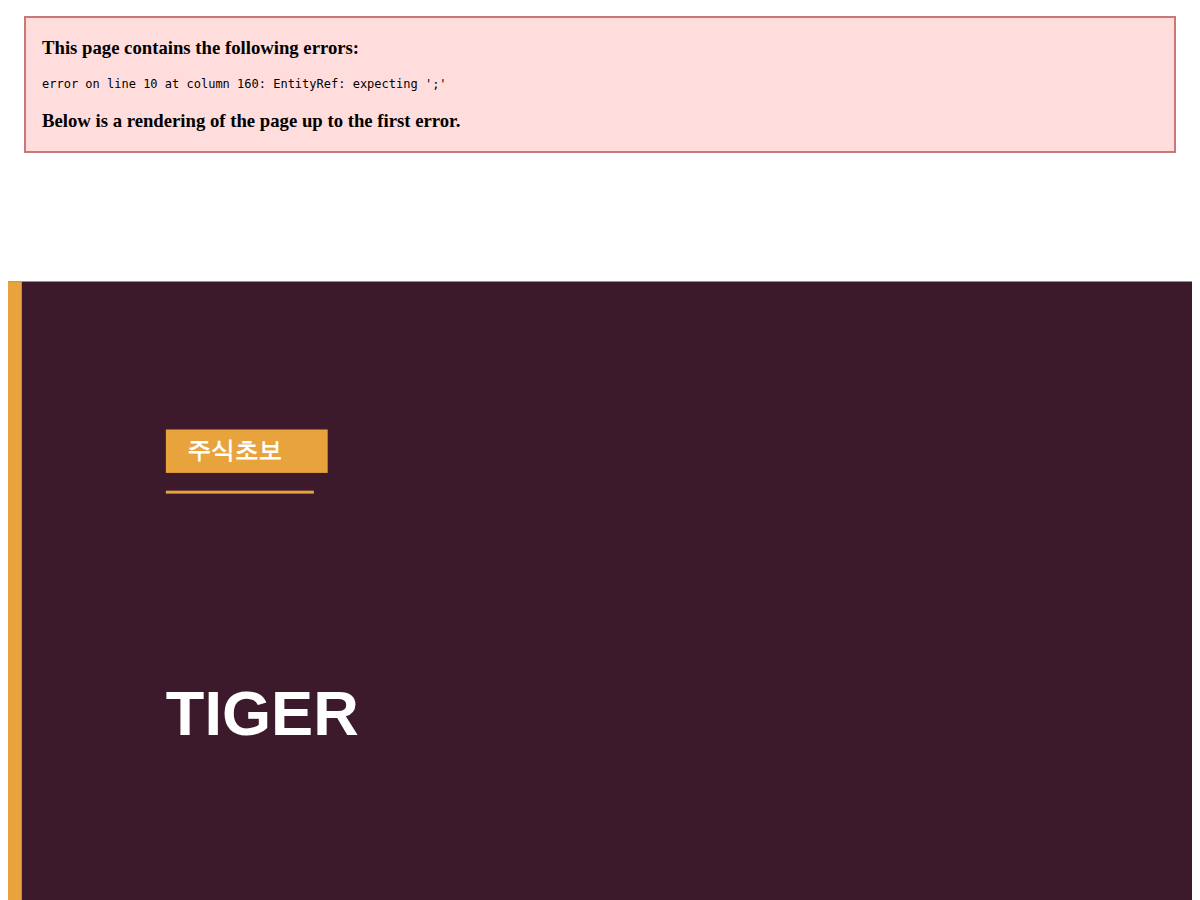
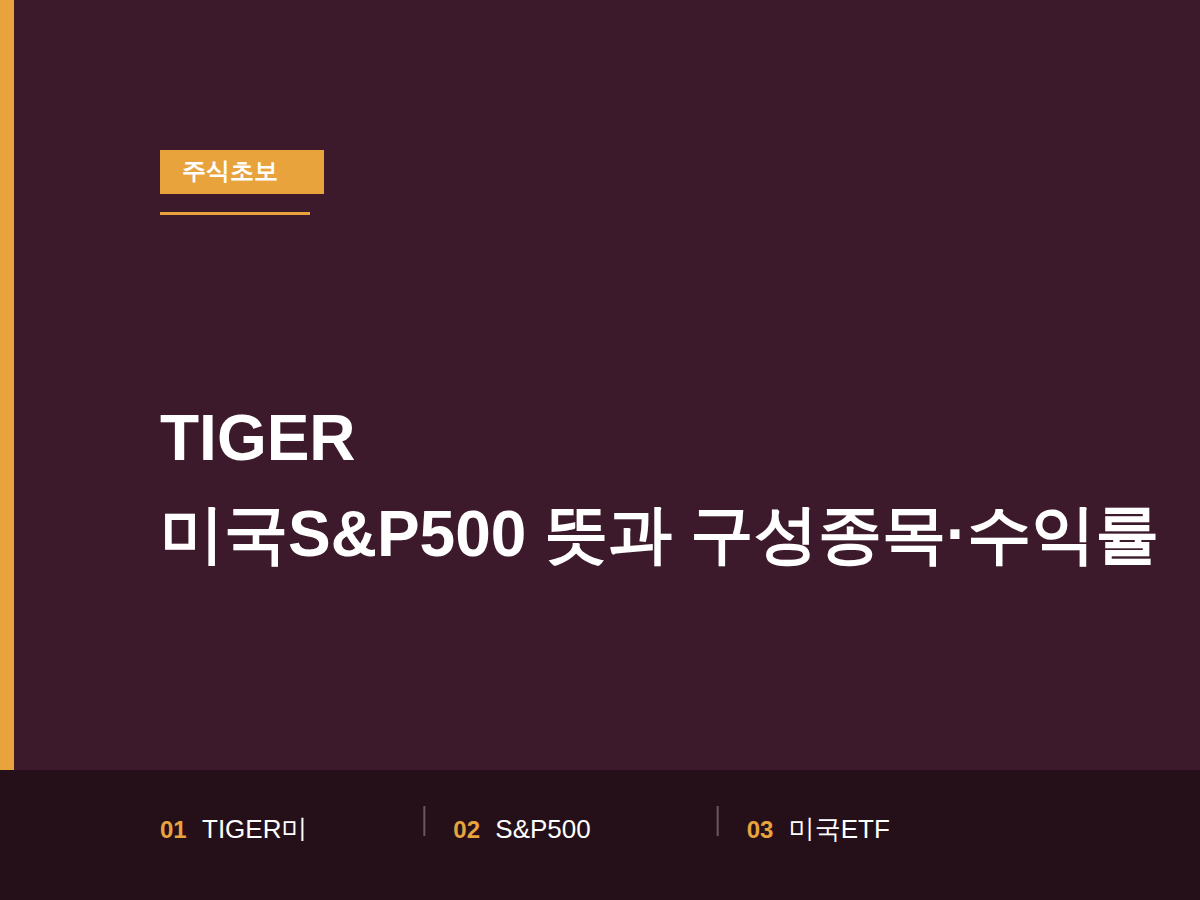
make_thumbnail.py: 제목에 & 들어가면 썸네일 깨지는 버그 수정
사용자가 64~65편 썸네일을 확인해달라고 해서 열어보니 PNG가 Chromium
XML 파싱 에러 화면("EntityRef: expecting ';'")으로 나오고 있었다.
제목("TIGER 미국S&P500 뜻과...")의 "&"가 SVG 텍스트 노드에 그대로
삽입되면서 XML이 깨졌던 것 — title/tag/points를 SVG에 넣기 전에
xml.sax.saxutils.escape로 이스케이프하지 않았던 게 원인이다.

title_lines·tag·points 텍스트 삽입 직전에 이스케이프를 추가하고, 두
편의 썸네일을 재생성해 정상 렌더링(따옴표 없이 "S&P500"으로 정확히
표시)을 확인했다. "&" 있는 제목은 이 두 편이 전부라 다른 편은 영향
없다.

Claude-Session: https://claude.ai/code/session_01XKTwKe5xeJYdashdw41Tz7

diff --git a/blog_automation/make_thumbnail.py b/blog_automation/make_thumbnail.py
@@ -33,6 +33,7 @@ import subprocess
 import sys
 import tempfile
 from pathlib import Path
+from xml.sax.saxutils import escape as _xml_escape
 
 FONT_STACK = "'Apple SD Gothic Neo','Malgun Gothic','Noto Sans KR',sans-serif"
 
@@ -123,7 +124,7 @@ def _build_points_block(points, accent, bg):
         x = MARGIN + slot_width * i
         label_x = x + 42
         items.append(POINT_ITEM.format(
-            x=x, label_x=label_x, num=f"{i + 1:02d}", label=label, accent=accent, font=FONT_STACK,
+            x=x, label_x=label_x, num=f"{i + 1:02d}", label=_xml_escape(label), accent=accent, font=FONT_STACK,
         ))
         if i > 0:
             dividers.append(DIVIDER.format(x=x - 30))
@@ -206,27 +207,29 @@ def main():
     bg = _normalize_color(bg)
     accent = _normalize_color(accent)
 
+    # 줄바꿈은 원문 글자수 기준으로 해야 하니, 이스케이프는 SVG에 넣기 직전에 한다
+    # (title/tag에 "&"·"<"·">" 등이 있으면 XML이 깨지므로 반드시 escape 필요).
     line1, line2 = _wrap_title(title)
     tag_width = len(tag) * 30 + 44
 
     if line2:
         title_lines = '\n  '.join([
-            TITLE_LINE.format(y=460, font=FONT_STACK, text=line1),
-            TITLE_LINE.format(y=556, font=FONT_STACK, text=line2),
+            TITLE_LINE.format(y=460, font=FONT_STACK, text=_xml_escape(line1)),
+            TITLE_LINE.format(y=556, font=FONT_STACK, text=_xml_escape(line2)),
         ])
     else:
-        title_lines = TITLE_LINE.format(y=510, font=FONT_STACK, text=line1)
+        title_lines = TITLE_LINE.format(y=510, font=FONT_STACK, text=_xml_escape(line1))
 
     if points:
         bottom_block = _build_points_block(points, accent, bg)
     else:
-        bottom_block = BOTTOM_BAR.format(bar_fill=_shade(bg, 0.62)) + '\n  ' + TAGLINE.format(font=FONT_STACK, tag=tag)
+        bottom_block = BOTTOM_BAR.format(bar_fill=_shade(bg, 0.62)) + '\n  ' + TAGLINE.format(font=FONT_STACK, tag=_xml_escape(tag))
 
     svg = BASE_TEMPLATE.format(
         bg=bg,
         accent=accent,
         font=FONT_STACK,
-        tag=tag,
+        tag=_xml_escape(tag),
         tag_width=tag_width,
         title_lines=title_lines,
         bottom_block=bottom_block,
